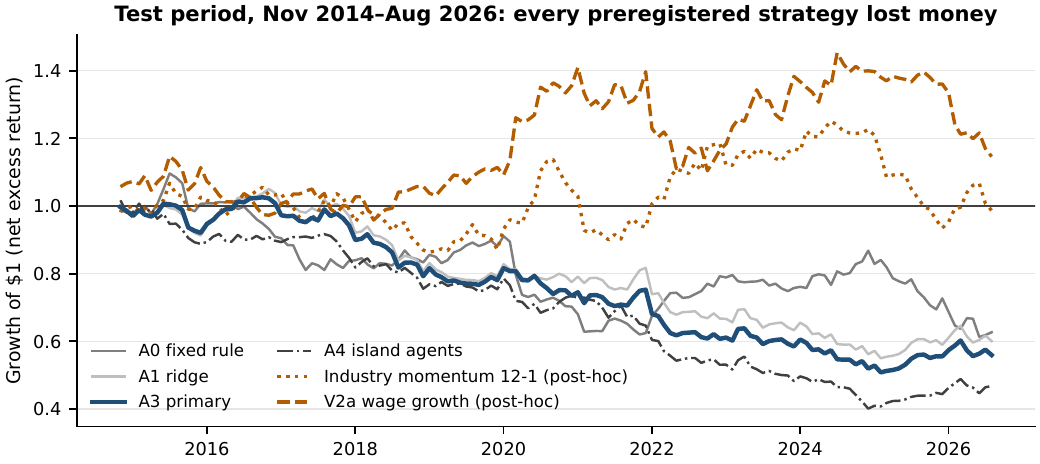
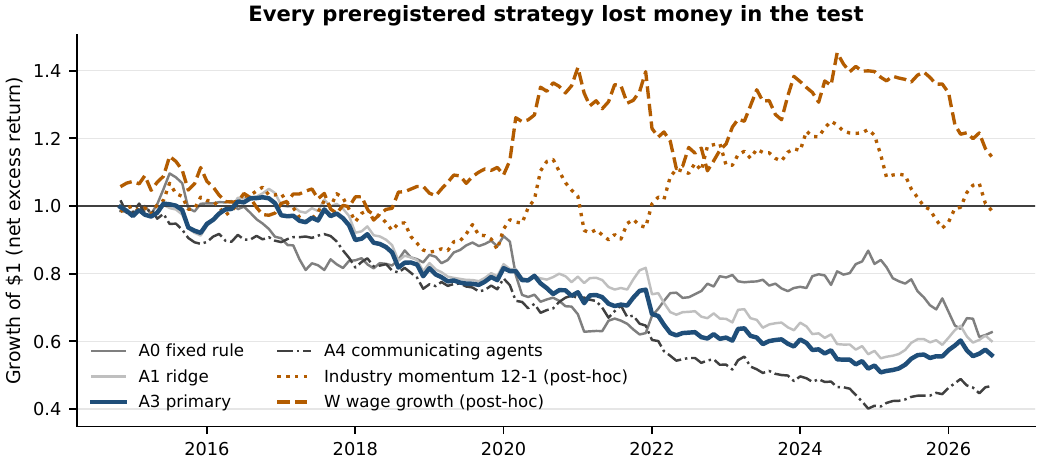
Part 6: README with the new names, scoreboard for Study 1 / 1b / 2, robustness table and repo map; analysis and results READMEs; open issues updated (#3 closed by the as-known rerun, #11-#14 added)

Changed region(s): [[0.0923, 0.0, 0.9538, 0.0603], [0.3385, 0.7241, 0.5231, 0.7845], [0.3077, 0.8448, 0.5538, 0.9052]]

diff --git a/README.md b/README.md
@@ -16,41 +16,74 @@ MFE 230GA – Equity Markets · UC Berkeley Haas · Fall 2026 · Final project
 
 ## The answer in five lines
 
-1. **H1, demand channel (preregistered, tested once): rejected.** Ranking 13 industry groups on the year-over-year change in openings, hires, layoffs and hours, as known at the time, lost 4.6% a year after costs over 142 untouched months (Sharpe −0.58, IC −0.021, placebo p 0.72). *Do not implement.*
-2. **Why it failed:** two of the four preregistered signs (layoffs, hours) have the opposite sign in the data; the one stable one-month signal, wage growth, was dropped during the build; and the labor market never tightened in the research years, so the tightness moderator (H3) could not be tested.
-3. **H2, cost and investment channel (post hoc): consistent with the data, not established.** Industries that hire and lose workers fastest earn lower returns over the following 9 to 24 months. A 12-month book on that sign (V2d) is positive in every window (test Sharpe +0.29, 12-month IC +0.096, t 2.43) but was designed after the test was opened, lost money in the first test half and has a deflated Sharpe of 0.05 after 132 looks.
+1. **Study 1 (preregistered, tested once): H1, the demand channel, is rejected.** Ranking 13 industry groups on the year-over-year change in openings, hires, layoffs and hours, as known at the time, lost 4.6% a year after costs over 142 untouched months (Sharpe −0.58, IC −0.021, placebo p 0.72). *Do not implement.*
+2. **Why it failed:** two of the four preregistered signs (layoffs, hours) have the opposite sign in the data; the one stable one-month signal, wage growth, was dropped during the build; the labor market never tightened in the research years, so the tightness moderator could not be tested; and the AI-proposed features were switched off in almost every test month.
+3. **Study 2 (post-hoc iteration): H2, the cost and investment channel, is consistent with the data, not established.** Industries that hire and lose workers fastest earn lower returns over the following 9 to 24 months. The 12-month book on that sign, HQ12, is positive in every window (test Sharpe +0.29; +0.20 on data as known at the time), but it was designed after the test was opened, lost money in the first test half and has a deflated Sharpe of 0.02 after 162 looks.
 4. **Forward test:** four paper books, frozen on 3 October 2026 for the 30 September decision and held to 31 December, with no capital behind them ([analysis/output/forward/](analysis/output/forward/)).
-5. **Claude as research assistant:** a useful auditor and idea generator when a human checked every claim against the code and data and it could not change the rules after seeing results; all 25 P1 findings, 10 P4 concerns and 25 judge labels needed that check.
+5. **Claude as research assistant:** a useful auditor and idea generator when a human checked every claim and it could not change the rules after seeing results. A quote requirement fixed the judge's format but not its false positives, and a feedback ablation did not confirm our explanation for the agents' regime gates.
+
+---
+
+## Names
+
+| Old name | Name used everywhere now |
+|---|---|
+| frozen / sealed / Sonnet study | **Study 1: preregistered (Alex)**, folder [study1_preregistered/](study1_preregistered/) |
+| Opus follow-up | **Study 1b: exploratory follow-up (Opus)** |
+| v2 / v3 / v4 runs | **Study 2: post-hoc iteration** (2.1 variants, 2.2 robustness of HQ12, 2.3 additional robustness) |
+| A0, A1, A1-T, A3, A4 | A0 *fixed rule*, A1 *ridge*, A1-T *ridge × tightness*, A3 *agent features, independent* (primary), A4 *agent features, communicating* |
+| V2a, V2b, V2c, V2d | **W** (wage growth, declared headline), **SC** (signed composite), **W+MOM** (wage growth + momentum), **HQ12** (hires + quits reversal, 12-month hold) |
+| P1–P6 | P1 *data and code audit*, P2 *signal agents*, P3 *judge*, P4 *red team*, P5 *post-mortem review*, P6 *iteration* |
+
+Result files written before the renaming keep the old codes inside, so they stay byte-identical; the hashed spec files do too.
 
 ---
 
 ## Every strategy we ran
 
-Net Sharpe ratios after 10 bp industry costs and 2 bp hedge costs, annualised. Source: [results/scoreboard.csv](results/scoreboard.csv), built by [results/build_results_book.py](results/build_results_book.py) from the frozen `results.json` and [analysis/output/study2/tables/](analysis/output/study2/tables/).
+Net Sharpe ratios after 10 bp industry costs and 2 bp hedge costs, annualised. Source: [results/scoreboard.csv](results/scoreboard.csv), built by [results/build_results_book.py](results/build_results_book.py) from Study 1's saved `results.json` and the tables under [analysis/output/](analysis/output/).
 
 | Strategy | Label | Research | Test | Full | Last 18 m | IC (t) | DSR | Reading |
 |---|---|---:|---:|---:|---:|---:|---:|---|
-| A3 primary (Sonnet agents) | CONFIRMATORY | −0.13 | **−0.58** | −0.44 | +0.85 | −0.021 (−1.08) | 0.00 | Do not implement |
-| A0 fixed rule | CONFIRMATORY | −0.44 | −0.36 | −0.48 | −1.56 | −0.020 (−0.71) | 0.00 | negative |
-| A1 ridge | CONFIRMATORY | −0.54 | −0.51 | −0.52 | +0.73 | −0.014 (−0.74) | 0.00 | negative |
-| A1-T tightness | CONFIRMATORY | −0.55 | −0.59 | −0.58 | −0.37 | −0.029 (−1.42) | 0.00 | negative |
-| A4 islands | CONFIRMATORY | −0.18 | −0.79 | −0.56 | +1.23 | −0.020 (−0.86) | 0.00 | negative |
-| A4 primary (Opus follow-up) | EXPLORATORY | −0.40 | +0.01 | −0.13 | −1.41 | −0.002 (−0.10) | 0.00 | fails G2–G5 |
-| V2a wage growth (declared headline) | POST-HOC | +0.09 | +0.16 | +0.15 | −1.71 | +0.049 (+2.04) | 0.02 | noise after the looks taken |
-| V2b signed composite | POST-HOC | −0.06 | −0.15 | −0.11 | −1.34 | +0.042 (+1.65) | 0.00 | noise after the looks taken |
-| V2c wage + momentum | POST-HOC | +0.27 | +0.35 | +0.32 | −0.78 | +0.032 (+1.21) | 0.09 | momentum supplies the return |
-| V2d −(hires + quits), 12-month hold | POST-HOC | +0.50 | +0.29 | +0.35 | +0.29 | +0.096 (+2.43)\* | 0.06 | thesis result, fragile in time |
+| **Study 1** A3 agent features, independent (primary) | CONFIRMATORY | −0.13 | **−0.58** | −0.44 | +0.85 | −0.021 (−1.08) | 0.00 | Do not implement |
+| Study 1 A0 fixed rule | CONFIRMATORY | −0.44 | −0.36 | −0.48 | −1.56 | −0.020 (−0.71) | 0.00 | negative |
+| Study 1 A1 ridge | CONFIRMATORY | −0.54 | −0.51 | −0.52 | +0.73 | −0.014 (−0.74) | 0.00 | negative |
+| Study 1 A1-T ridge × tightness | CONFIRMATORY | −0.55 | −0.59 | −0.58 | −0.37 | −0.029 (−1.42) | 0.00 | negative |
+| Study 1 A4 agent features, communicating | CONFIRMATORY | −0.18 | −0.79 | −0.56 | +1.23 | −0.020 (−0.86) | 0.00 | negative |
+| **Study 1b** A4 (its primary) | EXPLORATORY | −0.40 | +0.01 | −0.13 | −1.41 | −0.002 (−0.10) | 0.00 | fails G2–G5 |
+| **Study 2.1** W wage growth (declared headline) | POST-HOC | +0.09 | +0.16 | +0.15 | −1.71 | +0.049 (+2.04) | 0.02 | noise after the looks taken |
+| Study 2.1 SC signed composite | POST-HOC | −0.06 | −0.15 | −0.11 | −1.34 | +0.042 (+1.65) | 0.00 | noise; sign flips as known |
+| Study 2.1 W+MOM wage growth + momentum | POST-HOC | +0.27 | +0.35 | +0.32 | −0.78 | +0.032 (+1.21) | 0.09 | momentum supplies the return |
+| Study 2.1 HQ12 hires + quits reversal, 12-month hold | POST-HOC | +0.50 | +0.29 | +0.35 | +0.29 | +0.096 (+2.43)\* | 0.06 | thesis result, fragile in time |
+| **Study 2.3** HQ12 on as-known data | POST-HOC | +0.54 | +0.20 | +0.31 | +0.14 | +0.085 (+2.26)\* | 0.02 | as-known confirms the fixed-lag reading |
+| Study 2.3 W / SC / W+MOM on as-known data (test) | POST-HOC | | +0.13 / +0.24 / +0.46 | | | | | see the Results Book |
 
-**Legend.** CONFIRMATORY: preregistered, frozen and hashed before the test period (Nov 2014–Aug 2026) was opened once. EXPLORATORY: the Opus follow-up, run after the test had been seen. POST-HOC: chosen on 3 Oct 2026 after the test was opened; specs were hashed before running and every variant is reported. DSR: deflated Sharpe ratio (Bailey and López de Prado), 41 nominal trials for the frozen study, 112 for v2. \*12-month IC; the one-month IC of V2d is −0.020.
+**Legend.** CONFIRMATORY: preregistered, frozen and hashed before the test period (Nov 2014–Aug 2026) was opened once. EXPLORATORY: Study 1b, run after the test had been seen. POST-HOC: chosen after the test was opened; specs were hashed before running and every variant is reported. DSR: deflated Sharpe ratio; each row uses the looks taken when it was run (41 nominal trials for Study 1, 112 for Study 2.1, 162 for Study 2.3). \*12-month IC.
 
 <p align="center"><img src="docs/img/fig_cumulative.png" width="720" alt="Cumulative returns: every preregistered strategy lost money in the test"></p>
-<p align="center"><em>Every preregistered H1 book lost money in the test; the post-hoc wage-growth book gained until 2024 and gave much of it back.</em></p>
+<p align="center"><em>Every Study 1 book lost money in the test; the post-hoc wage-growth book gained until 2024 and gave much of it back.</em></p>
 
-<p align="center"><img src="docs/img/fig_horizon_profile.png" width="720" alt="Horizon profile of the H2 score"></p>
-<p align="center"><em>The H2 score has no one-month IC and a positive IC from 9 to 24 months, peaking at 12 (post hoc).</em></p>
+<p align="center"><img src="docs/img/fig_s1_horizon.png" width="720" alt="Horizon profile of the A3 and HQ12 scores"></p>
+<p align="center"><em>Horizon analysis, test window: the A3 score predicts at no horizon; the HQ12 score from 9 months (post hoc).</em></p>
 
 <p align="center"><img src="docs/img/fig_v2_windows.png" width="720" alt="Net Sharpe by window"></p>
-<p align="center"><em>Only V2d is positive in every window; V2a and V2c lost heavily in the last 18 months.</em></p>
+<p align="center"><em>Only HQ12 is positive in every window; W and W+MOM lost heavily in the last 18 months.</em></p>
+
+---
+
+## Robustness in one table
+
+| Question | Answer | Where |
+|---|---|---|
+| Is Study 1's loss robust? | Yes: negative under four data versions, three cost levels, both test halves, every dropped group, cap 2 / 3 / none and rank weights; bootstrap 90% interval [−0.99, −0.16] | [study1/robustness.md](analysis/output/study1/robustness.md) |
+| Was Study 1 really frozen before the test? | The hash of the freeze file equals the one stored when the test was opened, 0.04 s later; 337 of 338 frozen files in the repository still match | same file |
+| Does HQ12 survive data as known at the time? | Sign and most of the size: +0.20 against +0.29, 12-month IC +0.085 (t 2.26); the first test half is negative in both | [study2/robustness_2_3.md](analysis/output/study2/robustness_2_3.md) |
+| Did the gross cap or the top-3 construction cause the losses? | No: lifting the cap restores volatility, not Sharpe; rank weights move A3 to −0.49 and HQ12 to +0.31 | same file |
+| How many independent bets are 13 groups? | About 9 (participation ratio of relative returns) | same file |
+| Capacity? | About $1 million with the proxy ETFs (the least liquid trades $3.2 million a day) | same file |
+| Did sharing help the agents? | No: the arm gap is within the seed spread in both agent studies | same file |
+| Does a quote requirement fix the LLM judge? | It fixes Sonnet's format (8 of 8 usable), not Opus's false yes (8 of 17) | same file |
+| Did tightness feedback cause the regime gates? | Not confirmed: 4 of 48 proposals with the split, 3 of 50 without | same file |
 
 ---
 
@@ -58,24 +91,28 @@ Net Sharpe ratios after 10 bp industry costs and 2 bp hedge costs, annualised. S
 
 ```mermaid
 flowchart LR
-  A[Frozen study<br/>study1_preregistered<br/>sealed results.json] -->|read-only import| B[analysis/run.ipynb]
+  A[Study 1<br/>study1_preregistered<br/>saved results.json] -->|read-only import| B[analysis/run.ipynb]
   D[Ken French 49 industries<br/>FRED + ALFRED labor series] --> B
-  B --> G1{Gate 1<br/>reproduce sealed A0<br/>to 1e-16}
-  G1 -->|pass| C[Diagnostics D1–D10]
-  C --> S2[v2_spec.md<br/>hashed before run] --> V2[v2 variants, run once<br/>run log enforces byte identity]
-  V2 --> S3[v3_spec.md<br/>hashed before run] --> V3[V2d robustness R1–R11]
-  V2 --> F[forward/spec_frozen.md + amendment 001<br/>Q4 2026 book]
-  F --> G3{Gate 3<br/>specs frozen before runs}
-  V3 --> G2{Gate 2<br/>frozen folder fingerprint<br/>v2 outputs unchanged}
-  G2 --> R[results/build_results_book.py<br/>claims.csv verified by locator]
+  K[Alex's as-known panels<br/>saved as asknown_features.csv] --> B
+  B --> G1{Gate 1<br/>reproduce Study 1<br/>to 1e-16}
+  G1 -->|pass| C[Study 1 diagnostics]
+  C --> S2[specs/study2_1_variants.md<br/>hashed before run] --> V2[Study 2.1: W, SC, W+MOM, HQ12]
+  V2 --> S3[specs/study2_2_hq12_robustness.md] --> V3[Study 2.2: HQ12 battery]
+  V2 --> F[specs/forward_spec.md + amendment 001<br/>Q4 2026 book]
+  F --> G3{Gate 3}
+  V3 --> G2{Gate 2}
+  G2 --> S4[specs/study2_3_robustness.md] --> V4[Study 2.3: as-known, cap, rank weights,<br/>agents, capacity, judge, ablation]
+  V4 --> G4{Gate 4}
+  G4 --> R[results/build_results_book.py<br/>claims.csv verified by locator]
   G3 --> R
   R --> P[report/main.tex<br/>every number has a % src comment]
   G1 -.fail.-> X[analysis/output/STOP.md]
   G2 -.fail.-> X
   G3 -.fail.-> X
+  G4 -.fail.-> X
 ```
 
-The frozen study is never edited, rerun or retuned; its code is imported read-only and the sealed result (A3, Sharpe −0.58) stands. Every result carries exactly one label, CONFIRMATORY, POST-HOC or FORWARD TEST; post-hoc specs were written and hashed before they ran, every pre-declared variant is reported, and every look is counted in the deflated Sharpe ratio. [results/claims.csv](results/claims.csv) is the only source the report may quote; each claim has a machine-readable locator and is re-verified on every build (106 of 106 verified).
+Study 1 is never edited, rerun or retuned; its code is imported read-only and its result (A3, Sharpe −0.58) stands. Every result carries exactly one label, CONFIRMATORY, POST-HOC or FORWARD TEST; post-hoc specs were written and hashed before they ran, every pre-declared variant is reported, and every look is counted in the deflated Sharpe ratio. [results/claims.csv](results/claims.csv) is the only source the report may quote; each claim has a machine-readable locator and is re-verified on every build (148 of 148 verified).
 
 ---
 
@@ -86,7 +123,7 @@ The frozen study is never edited, rerun or retuned; its code is imported read-on
 git clone https://github.com/pieropls/MFE230GA follow-the-workers
 cd follow-the-workers
 python3 -m venv .venv && source .venv/bin/activate && pip install -r requirements.txt
-# 1. numbers, tables, figures (about 35 s); stops with analysis/output/STOP.md if any gate fails
+# 1. numbers, tables, figures (about one minute); stops with analysis/output/STOP.md if any gate fails
 jupyter nbconvert --to notebook --execute --inplace analysis/run.ipynb
 # 2. claims register, scoreboard, Results Book
 python3 -B results/build_results_book.py && (cd results && latexmk -pdf results_book.tex)
@@ -94,7 +131,9 @@ python3 -B results/build_results_book.py && (cd results && latexmk -pdf results_
 (cd report && python3 -B check_sources.py && latexmk -pdf main.tex)
 ```
 
-Gates, in the order the notebook runs them: **Gate 1** rebuilds the 13 group returns and the preregistered A0 signal and matches the frozen study's 50 saved ledgers to 1.5e-16; **Gate 3** checks that every spec hash matches its file and that each freeze timestamp precedes its first run; **Gate 2** checks that the frozen folder still has 3,067 files with fingerprint `eb109be9…` and that the v2 and v3 outputs are byte-identical to their first runs. A failed gate writes `analysis/output/STOP.md` and the notebook stops; nothing downstream is regenerated. Use `python3 -B` (or `PYTHONDONTWRITEBYTECODE=1`) so no `__pycache__` lands in the frozen folder. Byte identity is expected in the recorded environment ([analysis/output/environment.txt](analysis/output/environment.txt)); another BLAS build may differ in the last bit.
+Gates, in the order the notebook runs them: **Gate 1** rebuilds the 13 group returns and Study 1's A0 signal and matches its 50 saved ledgers to 1.5e-16; **Gate 3** checks that every spec hash matches its file and that each freeze timestamp precedes its first run; **Gate 2** checks that the Study 1 folder still has 3,067 files with fingerprint `eb109be9…` and that the Study 2.1 and 2.2 outputs are byte-identical to their first runs; **Gate 4** does the same for Study 2.3 and checks that the variant backtest engine reproduces Study 1's backtest. A failed gate writes `analysis/output/STOP.md` and the notebook stops. Use `python3 -B` (or `PYTHONDONTWRITEBYTECODE=1`) so no `__pycache__` lands in the Study 1 folder. Byte identity is expected in the recorded environment ([analysis/output/environment.txt](analysis/output/environment.txt)).
+
+Three inputs are read from saved files rather than recomputed: the as-known features (rebuilt from Alex's data package when it is present at `analysis/data/alex_package/`, otherwise read from [asknown_features.csv](analysis/output/study2/asknown_features.csv)), the ETF dollar volumes (Yahoo Finance, saved once) and the model calls of the judge and ablation tests ([analysis/llm_runs.py](analysis/llm_runs.py), logs under [analysis/output/study2/llm/](analysis/output/study2/llm/)).
 
 </details>
 
@@ -105,27 +144,32 @@ Gates, in the order the notebook runs them: **Gate 1** rebuilds the 13 group ret
 |---|---|
 | [README.md](README.md) | this page |
 | [requirements.txt](requirements.txt) | Python packages (loose pins; recorded versions in the comment) |
-| [study1_preregistered/](study1_preregistered/) | Alex's frozen preregistered study, imported with his git history at `c67c486`. Read-only ([provenance](docs/frozen_provenance.md)) |
-| [analysis/](analysis/) | our iteration: `params.py`, `data.py`, `stats.py`, `plots.py`, `run.ipynb`; frozen specs; forward test; outputs ([README](analysis/README.md)) |
+| [study1_preregistered/](study1_preregistered/) | Study 1 and Study 1b: Alex's preregistered study, imported with his git history at `c67c486`. Read-only ([provenance](docs/frozen_provenance.md)) |
+| [analysis/](analysis/) | Study 2: `params.py`, `data.py`, `stats.py`, `plots.py`, `run.ipynb`, `llm_runs.py` ([README](analysis/README.md)) |
+| [analysis/specs/](analysis/specs/) | every frozen specification with its SHA-256: Study 2.1, 2.2, 2.3, the forward test and its amendment |
+| [analysis/output/study1/](analysis/output/study1/) | Gate 1, the diagnostics of Study 1 and its robustness table |
+| [analysis/output/study2/](analysis/output/study2/) | Study 2.1, 2.2 and 2.3 results, run logs, Gates 2 and 4, model-call logs |
+| [analysis/output/forward/](analysis/output/forward/) | the Q4 2026 books, ETF proxies and Gate 3 |
 | [results/](results/) | claims register, scoreboard, Results Book (PDF + markdown), verdict ([README](results/README.md)) |
 | [report/](report/) | LaTeX report on the house template: `main.tex`, `preamble.tex`, `refs.bib`, `figures/`, `tables/`, `code/` |
-| [docs/](docs/) | [diagnosis of the frozen study](docs/FINDINGS_AND_PROPOSAL.md), [provenance of the frozen study](docs/frozen_provenance.md), [open issues](docs/OPEN_ISSUES.md), [commit map](docs/commit_map.md), [course sheet](docs/course/FinalProject.pdf), `img/` |
+| [docs/](docs/) | [diagnosis of Study 1](docs/FINDINGS_AND_PROPOSAL.md), [provenance](docs/frozen_provenance.md), [open issues](docs/OPEN_ISSUES.md), [commit map](docs/commit_map.md), [course sheet](docs/course/FinalProject.pdf), `img/` |
 
 </details>
 
 <details>
 <summary><strong>How the results are protected: hashes, timestamps, commits</strong></summary>
 
-| Artefact | SHA-256 (first 8) | Frozen (UTC, 3 Oct 2026) | First run | Commit |
+| Artefact | SHA-256 (first 8) | Frozen (UTC) | First run | Commit |
 |---|---|---|---|---|
-| [analysis/specs/study2_1_variants.md](analysis/specs/study2_1_variants.md) (V2a–V2d, reading rule, 112 looks) | `ca658234` | 09:00:13 | 09:01:55 | `44ae263` |
-| [analysis/specs/forward_spec.md](analysis/specs/forward_spec.md) | `735a8ffa` | 09:03:56 | book 09:17:55 | `f90b66c` |
-| [analysis/specs/forward_amendment_001.md](analysis/specs/forward_amendment_001.md) | `c76cde86` | 09:16:11 | book 09:17:55 | `22c67db` |
-| [analysis/output/forward/book_2026Q4.csv](analysis/output/forward/book_2026Q4.csv) (first build) | `85727526` | 09:17:55 | | `3e8ecd7` |
-| [analysis/specs/study2_2_hq12_robustness.md](analysis/specs/study2_2_hq12_robustness.md) (R1–R11, 132 looks) | `312aef1d` | 09:52:27 | 09:53:32 | `c7014d9` |
-| Frozen study folder (3,067 files) | `eb109be9` | imported at `c67c486` with Alex's history | checked every run | [provenance](docs/frozen_provenance.md) |
+| [specs/study2_1_variants.md](analysis/specs/study2_1_variants.md) (W, SC, W+MOM, HQ12; reading rule; 112 looks) | `ca658234` | 3 Oct, 09:00:13 | 09:01:55 | `44ae263` |
+| [specs/forward_spec.md](analysis/specs/forward_spec.md) | `735a8ffa` | 3 Oct, 09:03:56 | book 09:17:55 | `f90b66c` |
+| [specs/forward_amendment_001.md](analysis/specs/forward_amendment_001.md) | `c76cde86` | 3 Oct, 09:16:11 | book 09:17:55 | `22c67db` |
+| [output/forward/book_2026Q4.csv](analysis/output/forward/book_2026Q4.csv) (first build) | `85727526` | 3 Oct, 09:17:55 | | `3e8ecd7` |
+| [specs/study2_2_hq12_robustness.md](analysis/specs/study2_2_hq12_robustness.md) (132 looks) | `312aef1d` | 3 Oct, 09:52:27 | 09:53:32 | `c7014d9` |
+| [specs/study2_3_robustness.md](analysis/specs/study2_3_robustness.md) (162 looks) | `068a3e03` | 4 Oct, 09:18:39 | 09:26:27 | `130b3a8` |
+| Study 1 folder (3,067 files) | `eb109be9` | imported at `c67c486` with Alex's history | checked every run | [provenance](docs/frozen_provenance.md) |
 
-- [analysis/output/study2/v2_run_log.md](analysis/output/study2/v2_run_log.md) and [v3_run_log.md](analysis/output/study2/v3_run_log.md) hold the hashes of the first run; later runs must reproduce them or the notebook stops.
+- The run logs in [analysis/output/study2/](analysis/output/study2/) hold the hashes of every result table at its first run; later runs must reproduce them or the notebook stops.
 - [report/check_sources.py](report/check_sources.py) fails the build if a `% src:` comment swallows text.
 - The forward test is evaluated once, on 31 December 2026, whatever it shows.
 - Issues found and deliberately not fixed, because fixing them would change a frozen file or a recorded result: [docs/OPEN_ISSUES.md](docs/OPEN_ISSUES.md).
@@ -136,7 +180,7 @@ Gates, in the order the notebook runs them: **Gate 1** rebuilds the 13 group ret
 
 ## How we used Claude
 
-Claude did every AI job, which this term's course allows; the switch from the ChatGPT template is logged as preregistration amendments 001 and 002 in the frozen study. Confirmatory study: Claude Sonnet 5.5 at medium effort, 199 logged calls (P1 audit, P2 blinded signal agents, P3 migration judge, P4 red team). Follow-up: Claude Opus 5.5 at extra-high effort, 294 calls. Post-mortem review and this iteration: Claude Code (Opus 5.5, then Fable 5.1) under a one-page rules file (frozen folder read-only, one label per result, specs hashed before they run, a source comment on every number, stop at a failed gate). The engineering assistant that wrote the frozen pipeline is not documented in the repository (open item for Alex). Section 3.4 and Appendix A of the [report](report/main.pdf) evaluate what Claude got right and wrong.
+Claude did every AI job, which this term's course allows; the switch from the ChatGPT template is logged as preregistration amendments 001 and 002 of Study 1. Study 1: Claude Sonnet 5.5 at medium effort, 199 logged calls (P1 data and code audit, P2 blinded signal agents, P3 judge, P4 red team). Study 1b: Claude Opus 5.5 at extra-high effort, 294 calls. The post-mortem review (P5) and this iteration (P6): Claude Code (Opus 5.5, then Fable 5.1) under a one-page rules file. Study 2.3 added 25 judge calls and 111 agent calls with the original model IDs, every one logged. Alex used a general-purpose coding assistant ("6 astra") for engineering support; it took no part in the study's research, agent or evaluation roles. Section 3.4 and Appendix E of the [report](report/main.pdf) evaluate what Claude got right and wrong.
 
 ---
 
@@ -144,7 +188,8 @@ Claude did every AI job, which this term's course allows; the switch from the Ch
 
 - **Ken French Data Library**: 49 value-weighted industry portfolios, five factors and momentum (CRSP build 202608). Free for academic and non-commercial use with attribution. [analysis/data/french/](analysis/data/french/).
 - **BLS JOLTS and CES via FRED**: industry openings, hires, quits and layoffs rates (not seasonally adjusted), average weekly hours and hourly earnings; `JTSJOL` and `UNEMPLOY` for tightness. BLS data are U.S. government works in the public domain; FRED and ALFRED redistribute them under the St. Louis Fed terms of use. Current values in [analysis/data/fred/](analysis/data/fred/), the 29 September 2026 vintage in [analysis/data/alfred_2026-09-29/](analysis/data/alfred_2026-09-29/).
-- The frozen study's own ALFRED vintage files sit inside [study1_preregistered/](study1_preregistered/) and are not duplicated here.
+- **Alex Roesler's data package** (as-known panels, full ALFRED vintages and saved outputs of Study 1 and Study 1b; prepared by Alex on 4 October 2026, 1,191 files verified against his inventory). It is what makes the as-known rerun possible. It is read from `analysis/data/alex_package/` when present; the features derived from it are saved in the repository, so every result reproduces without it.
+- **Yahoo Finance** daily prices and volumes of the proxy ETFs, for the capacity note only.
 
 ---
 
@@ -154,8 +199,8 @@ Claude did every AI job, which this term's course allows; the switch from the Ch
 |---|---|
 | Piero Pelosi, Alex Roesler, Romain Almeida | idea |
 | Elouan Bahri | data collection |
-| Alex Roesler | v1 pipeline (the frozen preregistered study) |
-| Piero Pelosi | v2 iteration and report v1 |
+| Alex Roesler | Study 1 pipeline (the preregistered study) and the data package |
+| Piero Pelosi | Study 2 (the post-hoc iteration) and report v1 |
 | Romain Almeida | report v2 |
 | Al Yazid Bensaid | Claude evaluation |
 | Elouan Bahri | references and data appendix |

diff --git a/docs/OPEN_ISSUES.md b/docs/OPEN_ISSUES.md
@@ -1,12 +1,14 @@
 # Open issues
 
+Status on 4 Oct 2026: #3 is closed by the as-known rerun of Study 2.3; #11 to #14 were added during the Study 2.3 pass.
+
 Things found during the final pass (3 Oct 2026) that were **not** fixed because fixing them would change a frozen file or a recorded result. Rule for the final pass: no result may change; log it here instead.
 
 | # | Found in | Issue | Why not fixed | Owner |
 |---|---|---|---|---|
 | 1 | Stage 1 | `analysis/specs/study2_1_variants.md` line 3 cites `FINDINGS_AND_PROPOSAL.md` at its old location (now `docs/FINDINGS_AND_PROPOSAL.md`). | The file is hashed (`analysis/specs/study2_1_variants.sha256`, frozen 2026-10-03T09:00:13Z); editing it would break the freeze check in `run.ipynb`. | nobody (cosmetic) |
 | 2 | Stage 1 | `analysis/output/study1/diagnostics.md` (3 Oct baseline) and `docs/process/REVIEW_round*.md` quote paths as they were on 3 Oct. | Historical records; left as written. | nobody |
-| 3 | Stage 2 code review, finding 1 (MAJOR) | The fixed-lag rule (JOLTS d−2, CES d−1) assumes the normal BLS calendar; the federal shutdown of 1 Oct–12 Nov 2025 delayed releases, so at the 31 Oct 2025 decision the latest CES month was Aug 2025 (rule assumes Sep) and at the 28 Nov 2025 decision the latest CES was Sep and the latest JOLTS Aug (rule assumes Oct and Sep). Earning months Nov 2025 (W, F5) and Dec 2025 (F1–F5, W, T) use data released after the decision, in every v2/v3 window (2 of 18 last-18-month months). The confirmatory as-known data are unaffected. Verified by the reviewer against ALFRED vintages. | Correcting it changes v2/v3 numbers marginally after the run logs were frozen. Disclosed in `analysis/output/study1/data_vintage.md` and the report (§2.2). Any future run: apply the ALFRED availability rule (`realtime_start <= cutoff`) or carry Aug/Sep 2025 forward. | Piero (next iteration) |
+| 3 (closed 4 Oct) | Stage 2 code review, finding 1 (MAJOR); **closed**: Study 2.3 R1 reran W, SC, W+MOM and HQ12 on data as known at each decision date (Alex's as-known panel), which handles the shutdown months correctly; the fixed-lag tables of Studies 2.1 and 2.2 are kept as run, next to the as-known column | The fixed-lag rule (JOLTS d−2, CES d−1) assumes the normal BLS calendar; the federal shutdown of 1 Oct–12 Nov 2025 delayed releases, so at the 31 Oct 2025 decision the latest CES month was Aug 2025 (rule assumes Sep) and at the 28 Nov 2025 decision the latest CES was Sep and the latest JOLTS Aug (rule assumes Oct and Sep). Earning months Nov 2025 (W, F5) and Dec 2025 (F1–F5, W, T) use data released after the decision, in every v2/v3 window (2 of 18 last-18-month months). The confirmatory as-known data are unaffected. Verified by the reviewer against ALFRED vintages. | Correcting it changes v2/v3 numbers marginally after the run logs were frozen. Disclosed in `analysis/output/study1/data_vintage.md` and in the report (Section 2.2, "Four data versions"). Any future run: apply the ALFRED availability rule (`realtime_start <= cutoff`) or carry Aug/Sep 2025 forward. | Piero (next iteration) |
 | 4 | Stage 2 code review, finding 2 (MINOR) | v2/v3 test statistics are the test slice of a continuous run from May 2004; A3's sealed ledger starts from an empty book in Nov 2014. Reviewer's cold-start check: V2d test Sharpe +0.28 instead of +0.29, V2a unchanged. | Pre-declared in `v2_spec.md` §4; disclosed in the scoreboard caption and the report's Table 6 caption. The +0.28 figure is the reviewer's and is not in the claims register, so it is not quoted in the report. | none |
 | 5 | Stage 2 code review, finding 5 (MINOR) | The deflated Sharpe ratio uses a null trial variance of 1/T (independent zero-Sharpe trials); the 112/132 looks are correlated ICs, so the DSR is a rough deflation rather than the Bailey–López de Prado cross-trial variance; the last-18-month DSR (T=18) is not meaningful. | Pre-declared in `v2_spec.md` and `v3_spec.md`; a caveat was added to the report's Table 6 caption. | none |
 | 6 | Stage 2 code review, finding 6 (latent) | `analysis/stats.perf` has no contiguity guard for the maximum drawdown; on a gapped index (R4 ex-pandemic, R8 regime cells) `max_dd` would be wrong. It is not printed for any gapped window. | Code change at the final stage with no reported number affected; left for the next iteration. | Piero (next iteration) |
@@ -14,3 +16,7 @@ Things found during the final pass (3 Oct 2026) that were **not** fixed because 
 | 8 | Stage 2 code review, finding 8 (NIT) | Notebook cell 78 writes `12 * monthly_sharpe * sqrt(12) / 12`; imports mid-notebook (cells 46, 48); cell 48 re-implements the frozen tranche/beta/LW/scale logic for the forward book without a one-month self-test against frozen weights. | Cosmetic; editing executed cells at this stage buys nothing. The forward book's first build is hash-locked. | none |
 | 9 | Final tweaks (history rewrite) | After the 3 Oct 2026 rewrite of commit messages, two hashed files still cite pre-rewrite commit hashes: `analysis/specs/study2_1_variants.md` line 12 (`a0bdff3`, now `a56e6ce`) and `analysis/specs/forward_amendment_001.md` line 3 (`45991d4`, now `f90b66c`). | Both files are SHA-256-hashed and checked by `run.ipynb` at Gate 3; editing them would break the freeze check. The full old→new map is in `docs/commit_map.md`; the cited commits are the same commits (same trees, authors and dates) under new hashes. | nobody |
 | 10 | Part 1 (renaming, 4 Oct 2026) | The four hashed specification files in `analysis/specs/` still cite the old paths and codes inside (`analysis/v2_spec.md`, `analysis/forward/spec_frozen.md`, `analysis/output/tables/`, `230ga-follow-the-workers/`, V2a–V2d). | Their contents are frozen: the SHA-256 of each file is checked by `run.ipynb`, so only the file names and locations changed. Mapping: v2 spec = `study2_1_variants.md`, v3 spec = `study2_2_hq12_robustness.md`, forward spec = `forward_spec.md`, amendment = `forward_amendment_001.md`; V2a/V2b/V2c/V2d = W/SC/W+MOM/HQ12; the frozen study = `study1_preregistered/`. The frozen result CSVs keep the old codes inside for the same reason (byte identity). | nobody |
+| 11 | Study 2.3 (4 Oct 2026) | Alex's data package (`analysis/data/alex_package/`, 72 MB, 1,191 files) is not committed: the commit was blocked by the permission layer of the coding assistant during the unattended run. | Left for a human: `git add analysis/data/alex_package && git commit -m "Add Alex Roesler's data package" && git push`. Everything reproduces without it, because the as-known features derived from it are saved in `analysis/output/study2/asknown_features.csv`; only the R1 validation step and `llm_runs.py r9` need the package itself. | Piero |
+| 12 | Study 2.3, R1 | The prompt for the run named `levels_asof.parquet` for the validation; that file holds only the reference-month level per decision, so the validation used the full as-known panel and `features_asof.parquet` instead (stated in the spec before running). | Not an error; recorded as a deviation from the prompt's wording. | nobody |
+| 13 | Study 2.3, R8 and R9 | The model calls used the installed command-line clients: version 2.0.72 without an effort flag for the Sonnet calls (Study 1 used 2.1.284 at medium effort), and 2.1.284 at extra-high effort for the Opus judge calls after the first attempt failed in transport (the old client does not serve that model). Ten of 17 Opus answers were JSON inside a code fence and count as undefined under the pre-declared rule; a supplementary row accepts them. The R9 rerun produced fewer regime gates (6 to 12% per seed) than Study 1's independent arm (15 to 29%), so the two conditions are comparable with each other but not with Study 1. | Reported as run; rerunning would be a second look at the same test. | nobody |
+| 14 | Study 2.3, R9 | The reconstructed research inputs reproduce 94 of the 98 saved Study 1 feedbacks exactly; four differ in the second decimal (largest difference 0.11 in a t-statistic), most likely rounding of near-ties. | Within the tolerance fixed in `llm_runs.py`; reported in the appendix. | nobody |

diff --git a/analysis/README.md b/analysis/README.md
@@ -1,22 +1,24 @@
-# analysis/: v2 iteration code (post-hoc and forward test)
+# analysis/: Study 2 (the post-hoc iteration) and the diagnostics of Study 1
 
-Layout: small and flat. `run.ipynb` regenerates every number, table and figure top to bottom in about 35 s and stops with `output/STOP.md` if a gate fails.
+Small and flat. `run.ipynb` regenerates every number, table and figure top to bottom in about one minute and stops with `output/STOP.md` if a gate fails. Names: Study 1 is Alex's preregistered study in `../study1_preregistered/` (read-only); Study 2.1 is the four variants W, SC, W+MOM and HQ12 (stored as V2a to V2d inside the older result files), Study 2.2 the HQ12 battery, Study 2.3 the additional robustness.
 
 | File | Contents |
 |---|---|
-| `params.py` | Paths, windows, lags, portfolio settings (checked equal to the frozen study), the frozen folder's fingerprint, variant registry |
-| `data.py` | French group returns, FRED/ALFRED labor signals with fixed publication lags, read-only import of the frozen backtest |
-| `stats.py` | Rank IC, Newey–West regression, performance, factor attribution, circular-shift placebo, deflated Sharpe, block bootstrap |
+| `params.py` | Paths, windows, lags, portfolio settings (checked equal to Study 1's), the Study 1 folder's fingerprint, names |
+| `data.py` | French group returns, FRED/ALFRED labor signals with fixed publication lags, as-known features from Alex's panel, read-only import of Study 1's backtest, and a variant engine (gross cap, rank weights) that reproduces it |
+| `stats.py` | Rank IC, Newey-West regression, performance, factor attribution, circular-shift placebo, deflated Sharpe, block bootstrap |
 | `plots.py` | Every figure (vector PDF to `../report/figures/`), plus booktabs and markdown table writers |
-| `run.ipynb` | Orchestration: data → Gate 1 → diagnostics D1–D10 → v2 variants → forward test → Gate 3 → v3 battery → Gate 2 |
-| `v2_spec.md`, `v2_spec.sha256` | Four post-hoc variants and the reading rule, frozen (hashed, timestamped, committed) before they were run |
-| `v3_spec.md`, `v3_spec.sha256` | V2d robustness battery R1–R11, frozen before it was run |
-| `forward/` | Forward-test spec and amendment 001 (both hashed), Q4 2026 book for V2a–V2d (`book_2026Q4.csv`, plus scores, hedge and netted-ETF versions), `etf_proxies.csv`, `book_first_build.sha256`. The weekly tracker is deferred. |
-| `output/` | `validation.md` (Gate 1), `data_vintage.md`, `diagnostics_v2.md`, `v2_results.md`, `v2_run_log.md`, `v3_results.md`, `v3_run_log.md`, `gate2.md`, `gate3.md`, `tables/*.csv` |
-| `data/` | Ken French files (CRSP 202608 build), FRED current values and the ALFRED vintage of 29 Sep 2026, downloaded Oct 2026 |
+| `run.ipynb` | Data, Gate 1, Study 1 diagnostics D1-D10, Study 2.1, forward test, Gate 3, Study 2.2, Gate 2, Study 1 robustness, Study 2.3 (R1-R9), report tables, Gate 4 |
+| `llm_runs.py` | The model calls of Study 2.3 (R8 judge with a quote, R9 feedback ablation); run once, logged, read by the notebook |
+| `specs/` | Every specification, hashed before it ran: `study2_1_variants`, `study2_2_hq12_robustness`, `study2_3_robustness`, `forward_spec`, `forward_amendment_001` (each `.md` with its `.sha256`) |
+| `output/study1/` | `validation.md` (Gate 1), `data_vintage.md`, `diagnostics_v2.md`, `robustness.md`, `tables/d*.csv` |
+| `output/study2/` | `v2_results.md` and `v3_results.md` (Studies 2.1 and 2.2), `robustness_2_3.md`, the three run logs, `gate2.md`, `gate4.md`, `asknown_features.csv`, `llm/` call logs, `tables/*.csv` |
+| `output/forward/` | Q4 2026 book for W, SC, W+MOM and HQ12 (`book_2026Q4.csv`, plus scores, hedge and netted-ETF versions), `etf_proxies.csv`, `book_first_build.sha256`, `gate3.md` |
+| `data/` | Ken French files (CRSP 202608 build), FRED current values and the ALFRED vintage of 29 Sep 2026 |
+| `data/alex_package/` | Alex Roesler's data package (as-known panels, full ALFRED vintages, saved outputs of both of his studies; 1,191 files verified against his `DATA_INVENTORY.json`). Read-only and optional: when it is absent the notebook reads the as-known features saved in `output/study2/asknown_features.csv` |
 
-How to run: from the project root, `jupyter nbconvert --to notebook --execute --inplace analysis/run.ipynb`, or open the notebook and run all cells (kernel `python3`, packages in `../requirements.txt`). Use `python3 -B` or `PYTHONDONTWRITEBYTECODE=1` so no `__pycache__` is written into the frozen folder, whose file count is part of Gate 2. The frozen study in `../study1_preregistered/` is only read.
+How to run: from the project root, `jupyter nbconvert --to notebook --execute --inplace analysis/run.ipynb`, or open the notebook and run all cells (kernel `python3`, packages in `../requirements.txt`). Use `python3 -B` or `PYTHONDONTWRITEBYTECODE=1` so no `__pycache__` is written into the Study 1 folder, whose file count is part of Gates 2 and 4.
 
-Run logs: `output/v2_run_log.md` and `output/v3_run_log.md` record the SHA-256 of each output at its first run; the notebook recomputes them every run and stops if any differs. `forward/book_first_build.sha256` does the same for the Q4 book.
+Run logs: `output/study2/v2_run_log.md`, `v3_run_log.md` and `study2_3_run_log.md` record the SHA-256 of each result table at its first run; the notebook recomputes them every run and stops if any differs. `output/forward/book_first_build.sha256` does the same for the Q4 book.
 
-`output/diagnostics.md` is the 3 Oct baseline behind `../docs/FINDINGS_AND_PROPOSAL.md`. It was produced by the earlier `diagnostics.py`, which you can recover with `git show f6c95ef:analysis/diagnostics.py` (it has since been folded into the notebook).
+`output/study1/diagnostics.md` is the 3 Oct baseline behind `../docs/FINDINGS_AND_PROPOSAL.md`. It was produced by the earlier `diagnostics.py`, which you can recover with `git show f6c95ef:analysis/diagnostics.py` (it has since been folded into the notebook).
